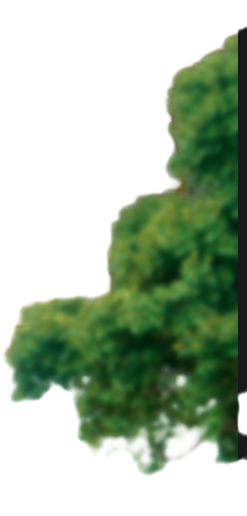
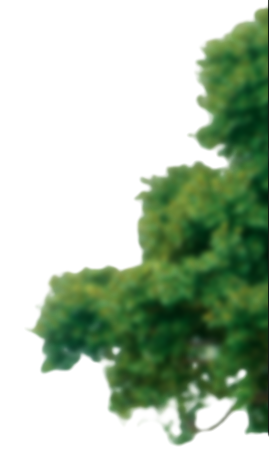
add decor

diff --git a/src/styles/sections/intro.sass b/src/styles/sections/intro.sass
@@ -18,13 +18,13 @@
     position: relative
     padding-top: 60px
     &::before
-        // content: ''
-        // position: absolute
-        // top: 38%
-        // left: 0
-        // background: url('../assets/images/intro/intro__decor-left.png') no-repeat
-        // width: 222px
-        // height: 437px
+        content: ''
+        position: absolute
+        top: 33%
+        left: 0
+        background: url('../assets/images/intro/intro__decor-left.png') no-repeat
+        width: 222px
+        height: 437px
     &__subtitle
         &_mobile
             display: none
@@ -42,18 +42,19 @@
         height: 100%
         &::after
             // Я вшил новое дерево в картинку дома
-            //content: ''
-            //position: absolute
-            //top: 28%
-            //right: 2%
-            //background: url('../assets/images/intro/intro__decor-right.png') no-repeat
-            //width: 247px
-            //height: 516px
+            content: ''
+            position: absolute
+            top: 45%
+            right: 0
+            background: url('../assets/images/intro/intro__decor-right.png') no-repeat
+            width: 270px
+            height: 460px
         // &-img
         //     background: url('../assets/images/intro/intro__house4.png') no-repeat
         //     width: 830px
         //     height: 1175px
         &-materials
+            z-index: 2
             transform-origin: top center
             position: absolute
             top: 9.5%
@@ -187,6 +188,10 @@
         &__right
             width: 664px
             height: 600px
+        &__house
+            &::after
+                transform: scale(0.7)
+                right: -6%
     .house
         &__materials
             left: 41%
@@ -215,9 +220,11 @@
             font-size: 20px
             &::before
                 display: none
-    .house
-        &__point
-            display: none
+        &__house
+            &::after
+                display: none
+            &-materials
+                display: none
 
 @media screen and ( max-width: 991px )
     .intro
@@ -241,6 +248,8 @@
 @media screen and ( max-width: 767px )
     .intro
         margin-top: -70px
+        &__house
+
         &__bg-left
             &::before
                 display: none
@@ -264,7 +273,7 @@
                 z-index: -1
                 transform: scale(1.4)
         &__right
-            top: 0
+            top: 2%
             width: 349px
         &__house
             background-size: contain
@@ -287,14 +296,14 @@
             &-desc
                 text-align: left
         &__title
-            font-size: 24px
+            font-size: 27px
             margin-bottom: 3rem
             display: none
             &_mobile
-                line-height: 1.3
+                line-height: 1.6
                 display: block
         &__subtitle
-            margin-top: 40px
+            margin-top: 68px
 
         &__items
             justify-content: center !important
@@ -303,7 +312,16 @@
         &__item
             margin: 0
             margin-top: 10px
-
+    .house
+        &__materials
+            display: block
+            left: 35%
+            top: 3%
+            // z-index: 14
+            width: 200px
+            transform: scale(0.6)
+            height: 200px
+            z-index: 2
             // margin: 0 1rem 1rem
 
             // &:first-child
@@ -313,14 +331,22 @@
             //     margin-left: 1.5rem
             //     margin-right: 1.5rem
 
+@media screen and ( max-width: 620px )
+    .intro__title
+        font-size: 24px
+
 @media screen and ( max-width: 576px )
     .intro
+        &__title
+            line-height: 1
         &__right
             top: 9%
             width: 140px
             height: 200px
         &__house
             background-size: cover
+            &-materials
+                display: none
 
 @media screen and ( max-width: 400px )
     .intro

diff --git a/src/html/includes/intro.html b/src/html/includes/intro.html
@@ -24,7 +24,7 @@
 		</div>
 	</div>
 
-	<div class="container-fluid">
+	<div class="container-fluid p-0">
 		<div class="row">
 			<div class="col-12 col-xxl-12">
 				<div class="intro" style="margin-top: 0">
